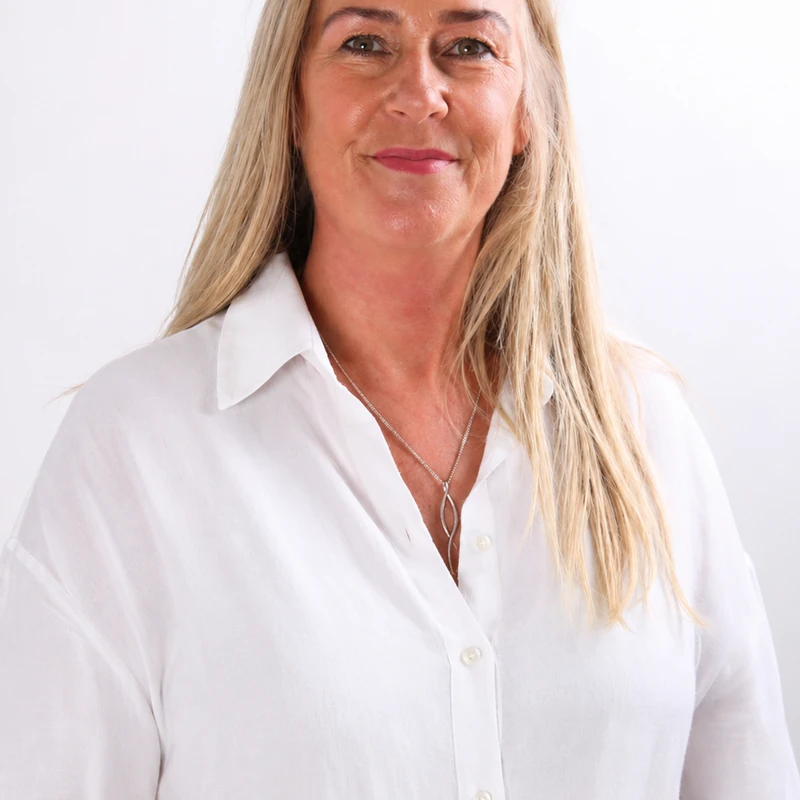
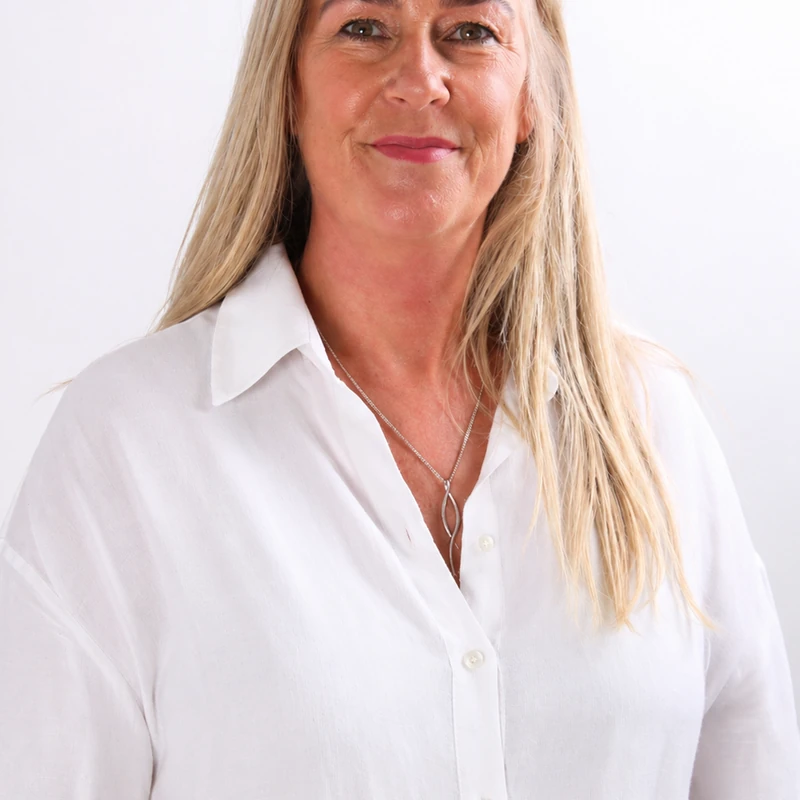
Headshot crop dialled in, cache-bust ?v=5, FAQ questions centred on mobile, hide Same-day reply badge on mobile
- Headshot: size=950, yOffset=380. Eyes at ~5% from top, smile at
  ~15%, shoulders dominate the lower half. Most balanced version yet.
- Append ?v=5 to /ruth-headshot.webp on home + about so browser and
  Cloudflare definitely refetch (versions before were almost certainly
  served stale, hence "you're not pushing it up" feeling).
- FAQ button: stacks vertically and centres on mobile (text + icon
  column), reverts to flex-row justify-between left-aligned on >= sm.
- Hide "Same-day reply" trust badge on mobile (overflowed to a third
  line); BACP + Free first session remain.

diff --git a/app/page.tsx b/app/page.tsx
@@ -89,11 +89,14 @@ export default function HomePage() {
             <FadeIn delay={300}>
               <ul className="mt-7 flex flex-wrap justify-center gap-x-4 gap-y-2 text-[13px] text-navy/75 sm:text-[14px] lg:justify-start">
                 {[
-                  "BACP registered",
-                  "Free first 55-min online session",
-                  "Same-day reply",
+                  { t: "BACP registered" },
+                  { t: "Free first 55-min online session" },
+                  { t: "Same-day reply", smOnly: true },
                 ].map((item) => (
-                  <li key={item} className="flex items-center gap-1.5">
+                  <li
+                    key={item.t}
+                    className={`items-center gap-1.5 ${item.smOnly ? "hidden sm:flex" : "flex"}`}
+                  >
                     <svg
                       aria-hidden="true"
                       viewBox="0 0 20 20"
@@ -108,7 +111,7 @@ export default function HomePage() {
                         strokeLinejoin="round"
                       />
                     </svg>
-                    <span className="font-medium">{item}</span>
+                    <span className="font-medium">{item.t}</span>
                   </li>
                 ))}
               </ul>
@@ -579,7 +582,7 @@ export default function HomePage() {
                 className="absolute -inset-1.5 rounded-full bg-soft-blue/40"
               />
               <img
-                src="/ruth-headshot.webp"
+                src="/ruth-headshot.webp?v=5"
                 alt="Ruth, the counsellor at Hampshire Headspace"
                 width={520}
                 height={520}

diff --git a/components/FAQItem.tsx b/components/FAQItem.tsx
@@ -17,7 +17,7 @@ export default function FAQItem({ question, children, defaultOpen = false }: Pro
         type="button"
         onClick={() => setOpen((v) => !v)}
         aria-expanded={open}
-        className="flex w-full items-center justify-between gap-4 py-5 text-left transition-colors hover:text-navy-deep"
+        className="flex w-full flex-col items-center gap-3 py-5 text-center transition-colors hover:text-navy-deep sm:flex-row sm:justify-between sm:gap-4 sm:text-left"
       >
         <span className="text-[17px] font-medium text-navy sm:text-[18px]">
           {question}

diff --git a/app/about/page.tsx b/app/about/page.tsx
@@ -46,7 +46,7 @@ export default function AboutPage() {
                 className="absolute -inset-1.5 rounded-full bg-soft-blue/40"
               />
               <img
-                src="/ruth-headshot.webp"
+                src="/ruth-headshot.webp?v=5"
                 alt="Ruth, the counsellor at Hampshire Headspace"
                 width={480}
                 height={480}
